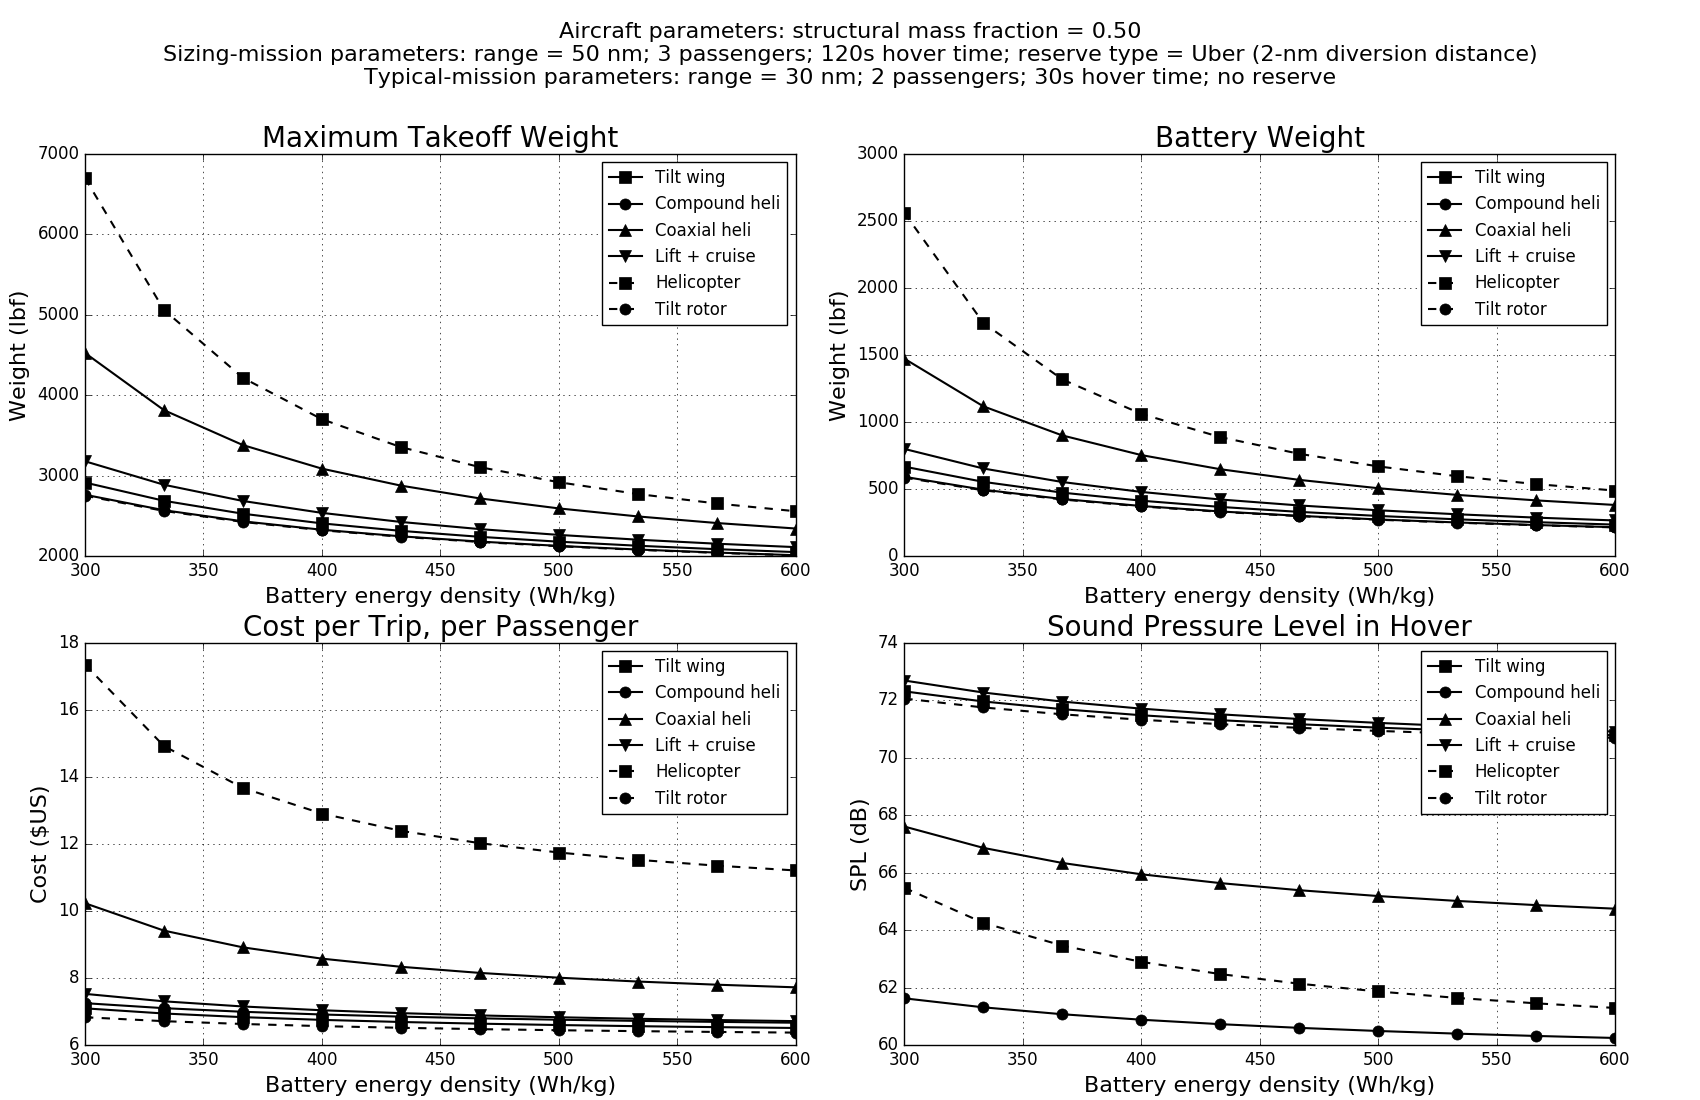
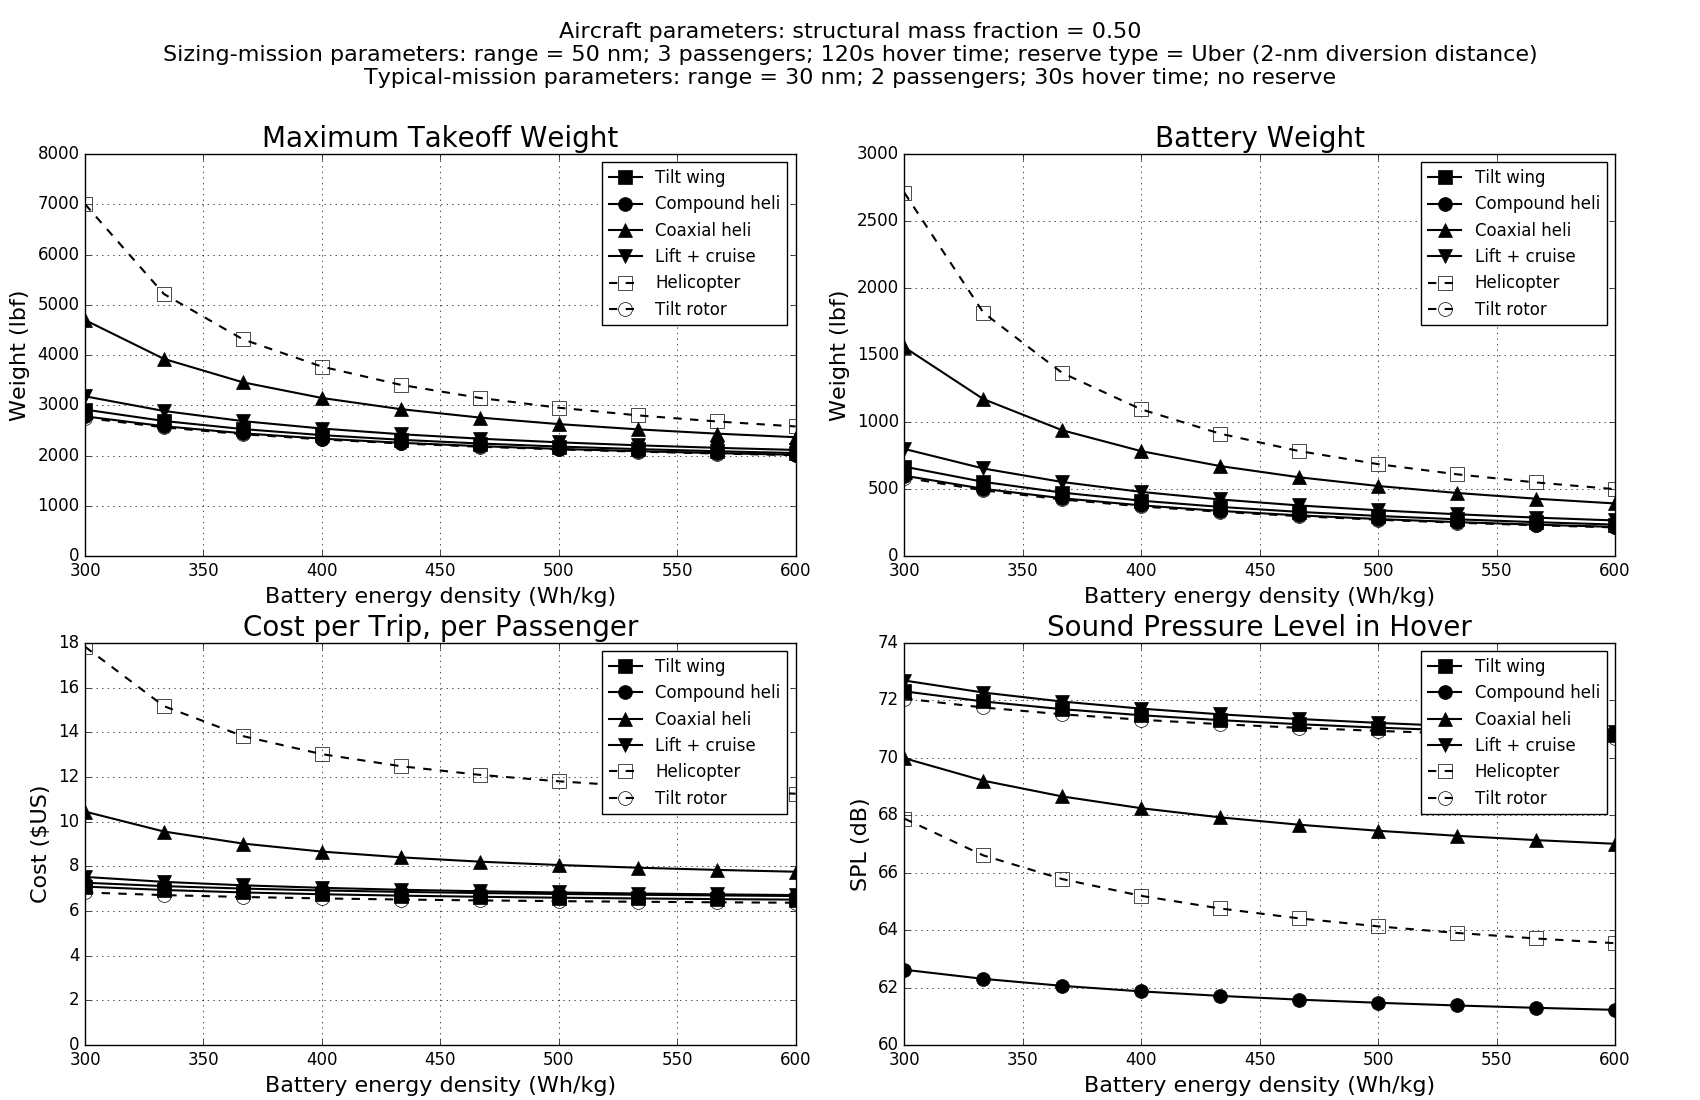
Add CL_mean to other studies

diff --git a/configuration_data.py b/configuration_data.py
@@ -8,51 +8,57 @@ configurations["Multirotor"] = {}
 configurations["Multirotor"]["V_{cruise}"] = 50*ureg("mph")
 configurations["Multirotor"]["L/D"] = 1.5
 configurations["Multirotor"]["T/A"] = 3.75*ureg("lbf")/ureg("ft")**2
-
+configurations["Multirotor"]["Cl_{mean_{max}}"] = 0.6
 
 configurations["Autogyro"] = {}
 configurations["Autogyro"]["V_{cruise}"] = 100*ureg("mph")
 configurations["Autogyro"]["L/D"] = 3.5
 configurations["Autogyro"]["T/A"] = 3.75*ureg("lbf")/ureg("ft")**2
-
+configurations["Autogyro"]["Cl_{mean_{max}}"] = 0.8
 
 configurations["Helicopter"] = {}
 configurations["Helicopter"]["V_{cruise}"] = 100*ureg("mph")
 configurations["Helicopter"]["L/D"] = 4.25
 configurations["Helicopter"]["T/A"] = 4.5*ureg("lbf")/ureg("ft")**2
-
+configurations["Helicopter"]["Cl_{mean_{max}}"] = 0.6
 
 configurations["Tilt duct"] = {}
 configurations["Tilt duct"]["V_{cruise}"] = 150*ureg("mph")
 configurations["Tilt duct"]["L/D"] = 10.
 configurations["Tilt duct"]["T/A"] = 40*ureg("lbf")/ureg("ft")**2
+configurations["Tilt duct"]["Cl_{mean_{max}}"] = 1.0
 
 
 configurations["Coaxial heli"] = {}
 configurations["Coaxial heli"]["V_{cruise}"] = 150*ureg("mph")
 configurations["Coaxial heli"]["L/D"] = 5.5
 configurations["Coaxial heli"]["T/A"] = 7*ureg("lbf")/ureg("ft")**2
+configurations["Coaxial heli"]["Cl_{mean_{max}}"] = 0.6
 
 
 configurations["Lift + cruise"] = {}
 configurations["Lift + cruise"]["V_{cruise}"] = 150*ureg("mph")
 configurations["Lift + cruise"]["L/D"] = 10
 configurations["Lift + cruise"]["T/A"] = 15*ureg("lbf")/ureg("ft")**2
+configurations["Lift + cruise"]["Cl_{mean_{max}}"] = 1.0
 
 
 configurations["Tilt wing"] = {}
 configurations["Tilt wing"]["V_{cruise}"] = 150*ureg("mph")
 configurations["Tilt wing"]["L/D"] = 12
 configurations["Tilt wing"]["T/A"] = 15*ureg("lbf")/ureg("ft")**2
+configurations["Tilt wing"]["Cl_{mean_{max}}"] = 1.0
 
 
 configurations["Compound heli"] = {}
 configurations["Compound heli"]["V_{cruise}"] = 150*ureg("mph")
 configurations["Compound heli"]["L/D"] = 9
 configurations["Compound heli"]["T/A"] = 4.5*ureg("lbf")/ureg("ft")**2
+configurations["Compound heli"]["Cl_{mean_{max}}"] = 0.8
 
 
 configurations["Tilt rotor"] = {}
 configurations["Tilt rotor"]["V_{cruise}"] = 150*ureg("mph")
 configurations["Tilt rotor"]["L/D"] = 14
 configurations["Tilt rotor"]["T/A"] = 15*ureg("lbf")/ureg("ft")**2
+configurations["Tilt rotor"]["Cl_{mean_{max}}"] = 1.0

diff --git a/config_tradeStudy.py b/config_tradeStudy.py
@@ -45,9 +45,11 @@ for config in configs:
 	V_loiter = V_cruise #approximation
 	L_D = c["L/D"]
 	T_A = c["T/A"]
+	Cl_mean_max = c["Cl_{mean_{max}}"]
 
 	Aircraft = SimpleOnDemandAircraft(N=N,L_D=L_D,eta_cruise=eta_cruise,C_m=C_m,
-		weight_fraction=weight_fraction,N_crew=N_crew,n=n,eta_electric=eta_electric)
+		Cl_mean_max=Cl_mean_max,weight_fraction=weight_fraction,N_crew=N_crew,n=n,
+		eta_electric=eta_electric)
 
 	SizingMission = OnDemandSizingMission(Aircraft,mission_range=sizing_mission_range,
 		V_cruise=V_cruise,V_loiter=V_loiter,N_passengers=sizing_N_passengers,
